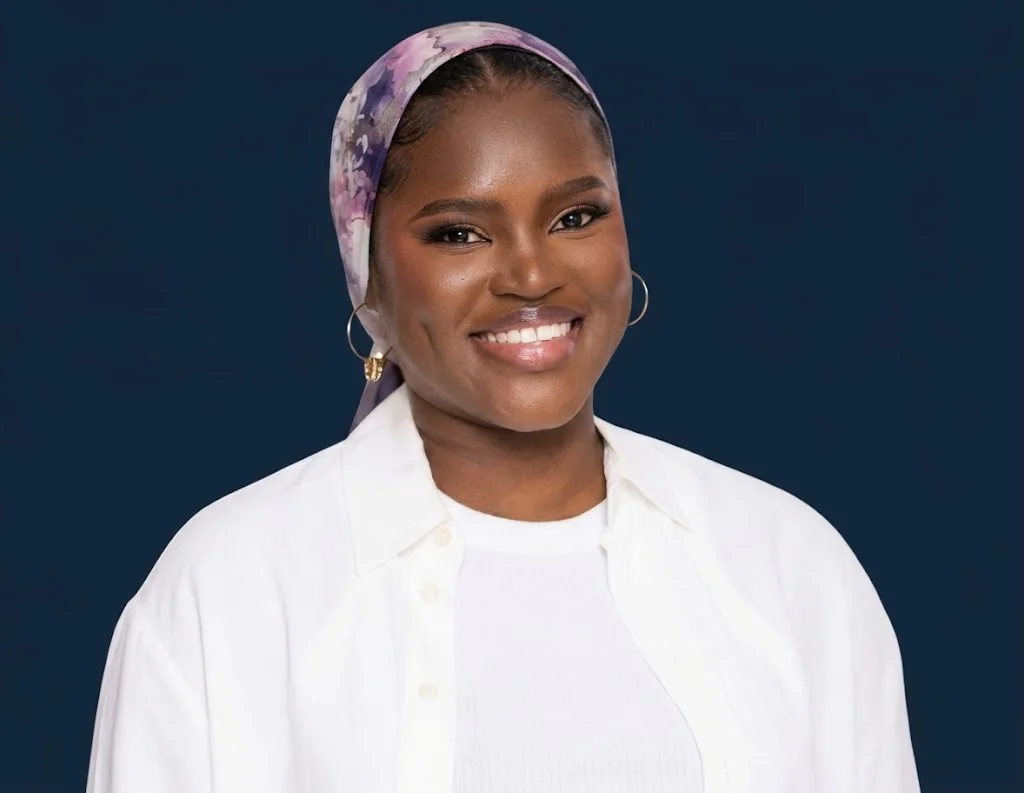
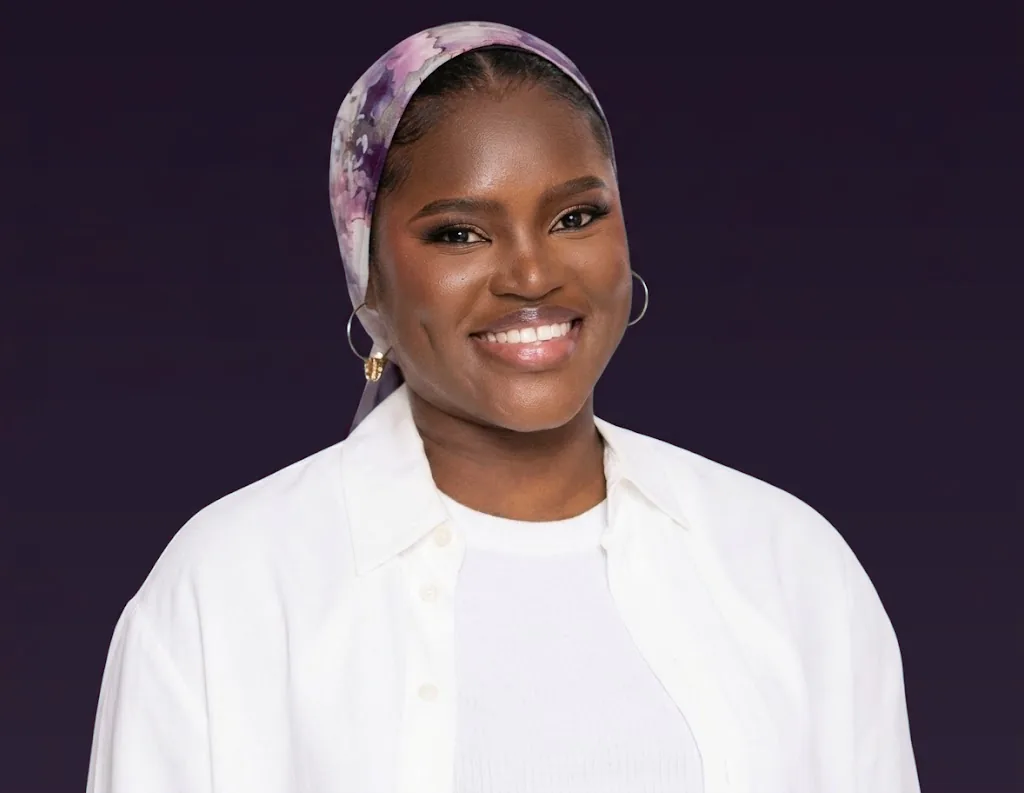
Refonte : portrait souriant sur fond prune et images allégées pour mobile
- Fond marine remplacé par la prune du site (masque doux, bords du foulard et de la boucle d'oreille vérifiés)
- Portrait en blouse recompressé : 79 ko -> 41 ko, version mobile 18 ko ; portrait souriant 22 ko, version mobile 10 ko
- srcset : les téléphones peu denses chargent la version légère
- Cadres des photos passés à la prune

Changed region(s): [[0.875, 0.7869, 1.0, 1.0], [0.0, 0.8474, 0.0938, 1.0], [0.0, 0.7869, 0.0312, 0.8172]]

diff --git a/src/app/features/home/home-mobile/home-mobile.html b/src/app/features/home/home-mobile/home-mobile.html
@@ -11,7 +11,9 @@
         style="background: linear-gradient(180deg, #1c131f 0%, #201a25 30%, #2d2035 100%)"
       ></div>
       <img
-        src="/img/dr-fall.webp"
+        src="/img/dr-fall-640.webp"
+        srcset="/img/dr-fall-640.webp 640w, /img/dr-fall.webp 1080w"
+        sizes="100vw"
         alt="Le Dr Aissatou Mamadou Fall, endocrinologue et nutritionniste, en blouse blanche, les bras croisés"
         width="1080"
         height="1080"
@@ -301,9 +303,11 @@
 
     <!-- La doctoresse -->
     <section class="-mt-8 flex flex-col gap-[22px] bg-cream-50 px-4 pb-16 pt-24">
-      <div class="relative h-[400px] overflow-hidden rounded-[190px_190px_28px_28px] bg-[#13253a]">
+      <div class="relative h-[400px] overflow-hidden rounded-[190px_190px_28px_28px] bg-[#2a1930]">
         <img
-          src="/img/dr-fall-sourire.webp"
+          src="/img/dr-fall-sourire-640.webp"
+          srcset="/img/dr-fall-sourire-640.webp 640w, /img/dr-fall-sourire.webp 1024w"
+          sizes="(max-width: 1023px) 92vw, 540px"
           alt="Portrait souriant du Dr Aissatou Mamadou Fall"
           width="1024"
           height="793"

diff --git a/src/app/features/home/home/home.html b/src/app/features/home/home/home.html
@@ -151,10 +151,12 @@
       >
         <div class="mx-auto flex max-w-[1160px] flex-wrap items-center gap-10 lg:gap-16">
           <div
-            class="relative h-[420px] min-w-0 flex-[1_1_420px] overflow-hidden rounded-[28px] bg-[#13253a] sm:h-[560px] lg:rounded-[36px]"
+            class="relative h-[420px] min-w-0 flex-[1_1_420px] overflow-hidden rounded-[28px] bg-[#2a1930] sm:h-[560px] lg:rounded-[36px]"
           >
             <img
-              src="/img/dr-fall-sourire.webp"
+              src="/img/dr-fall-sourire-640.webp"
+              srcset="/img/dr-fall-sourire-640.webp 640w, /img/dr-fall-sourire.webp 1024w"
+              sizes="(max-width: 1023px) 92vw, 540px"
               alt="Portrait souriant du Dr Aissatou Mamadou Fall"
               width="1024"
               height="793"

diff --git a/src/app/shared/auth-visual-panel/auth-visual-panel.html b/src/app/shared/auth-visual-panel/auth-visual-panel.html
@@ -12,10 +12,10 @@
 
   <div class="flex max-w-[480px] flex-col gap-[26px]">
     <div
-      class="relative h-[230px] w-[190px] overflow-hidden rounded-[95px_95px_22px_22px] border border-white/15 bg-[#13253a] [@media(max-height:820px)]:h-[160px] [@media(max-height:820px)]:w-[132px] [@media(max-height:820px)]:rounded-[66px_66px_18px_18px]"
+      class="relative h-[230px] w-[190px] overflow-hidden rounded-[95px_95px_22px_22px] border border-white/15 bg-[#2a1930] [@media(max-height:820px)]:h-[160px] [@media(max-height:820px)]:w-[132px] [@media(max-height:820px)]:rounded-[66px_66px_18px_18px]"
     >
       <img
-        src="/img/dr-fall-sourire.webp"
+        src="/img/dr-fall-sourire-640.webp"
         alt="Le Dr Aissatou Mamadou Fall, sourire aux lèvres"
         width="1024"
         height="793"

diff --git a/src/app/features/pages/premiere-consultation/premiere-consultation.html b/src/app/features/pages/premiere-consultation/premiere-consultation.html
@@ -23,10 +23,12 @@
         </div>
       </div>
       <div
-        class="relative h-[380px] w-full min-w-0 overflow-hidden rounded-[200px_200px_36px_36px] bg-[#13253a] sm:h-[460px] lg:h-[520px] lg:w-auto lg:flex-[0_1_420px]"
+        class="relative h-[380px] w-full min-w-0 overflow-hidden rounded-[200px_200px_36px_36px] bg-[#2a1930] sm:h-[460px] lg:h-[520px] lg:w-auto lg:flex-[0_1_420px]"
       >
         <img
-          src="/img/dr-fall-sourire.webp"
+          src="/img/dr-fall-sourire-640.webp"
+          srcset="/img/dr-fall-sourire-640.webp 640w, /img/dr-fall-sourire.webp 1024w"
+          sizes="(max-width: 1023px) 92vw, 540px"
           alt="Le Dr Aissatou Mamadou Fall vous accueille, sourire aux lèvres"
           width="1024"
           height="793"

diff --git a/src/app/features/pages/a-propos/a-propos.html b/src/app/features/pages/a-propos/a-propos.html
@@ -60,10 +60,12 @@
           </div>
         </div>
         <div
-          class="relative h-[420px] overflow-hidden rounded-[26px] bg-[#13253a] shadow-[0_30px_60px_rgba(31,18,38,0.22)] lg:h-[560px]"
+          class="relative h-[420px] overflow-hidden rounded-[26px] bg-[#2a1930] shadow-[0_30px_60px_rgba(31,18,38,0.22)] lg:h-[560px]"
         >
           <img
-            src="/img/dr-fall-sourire.webp"
+            src="/img/dr-fall-sourire-640.webp"
+            srcset="/img/dr-fall-sourire-640.webp 640w, /img/dr-fall-sourire.webp 1024w"
+            sizes="(max-width: 1023px) 92vw, 540px"
             alt="Portrait souriant du Dr Aissatou Mamadou Fall"
             width="1024"
             height="793"

diff --git a/src/app/features/pages/contact/contact.html b/src/app/features/pages/contact/contact.html
@@ -16,11 +16,11 @@
     >
       <div class="flex items-center gap-3.5">
         <img
-          src="/img/dr-fall-sourire.webp"
+          src="/img/dr-fall-sourire-640.webp"
           alt=""
           width="56"
           height="56"
-          class="h-14 w-14 shrink-0 rounded-full border-2 border-accent-500 bg-[#13253a] object-cover object-[50%_28%]"
+          class="h-14 w-14 shrink-0 rounded-full border-2 border-accent-500 bg-[#2a1930] object-cover object-[50%_28%]"
         />
         <div class="flex flex-col gap-0.5">
           <span class="font-display text-[16px] font-bold leading-tight text-white"
